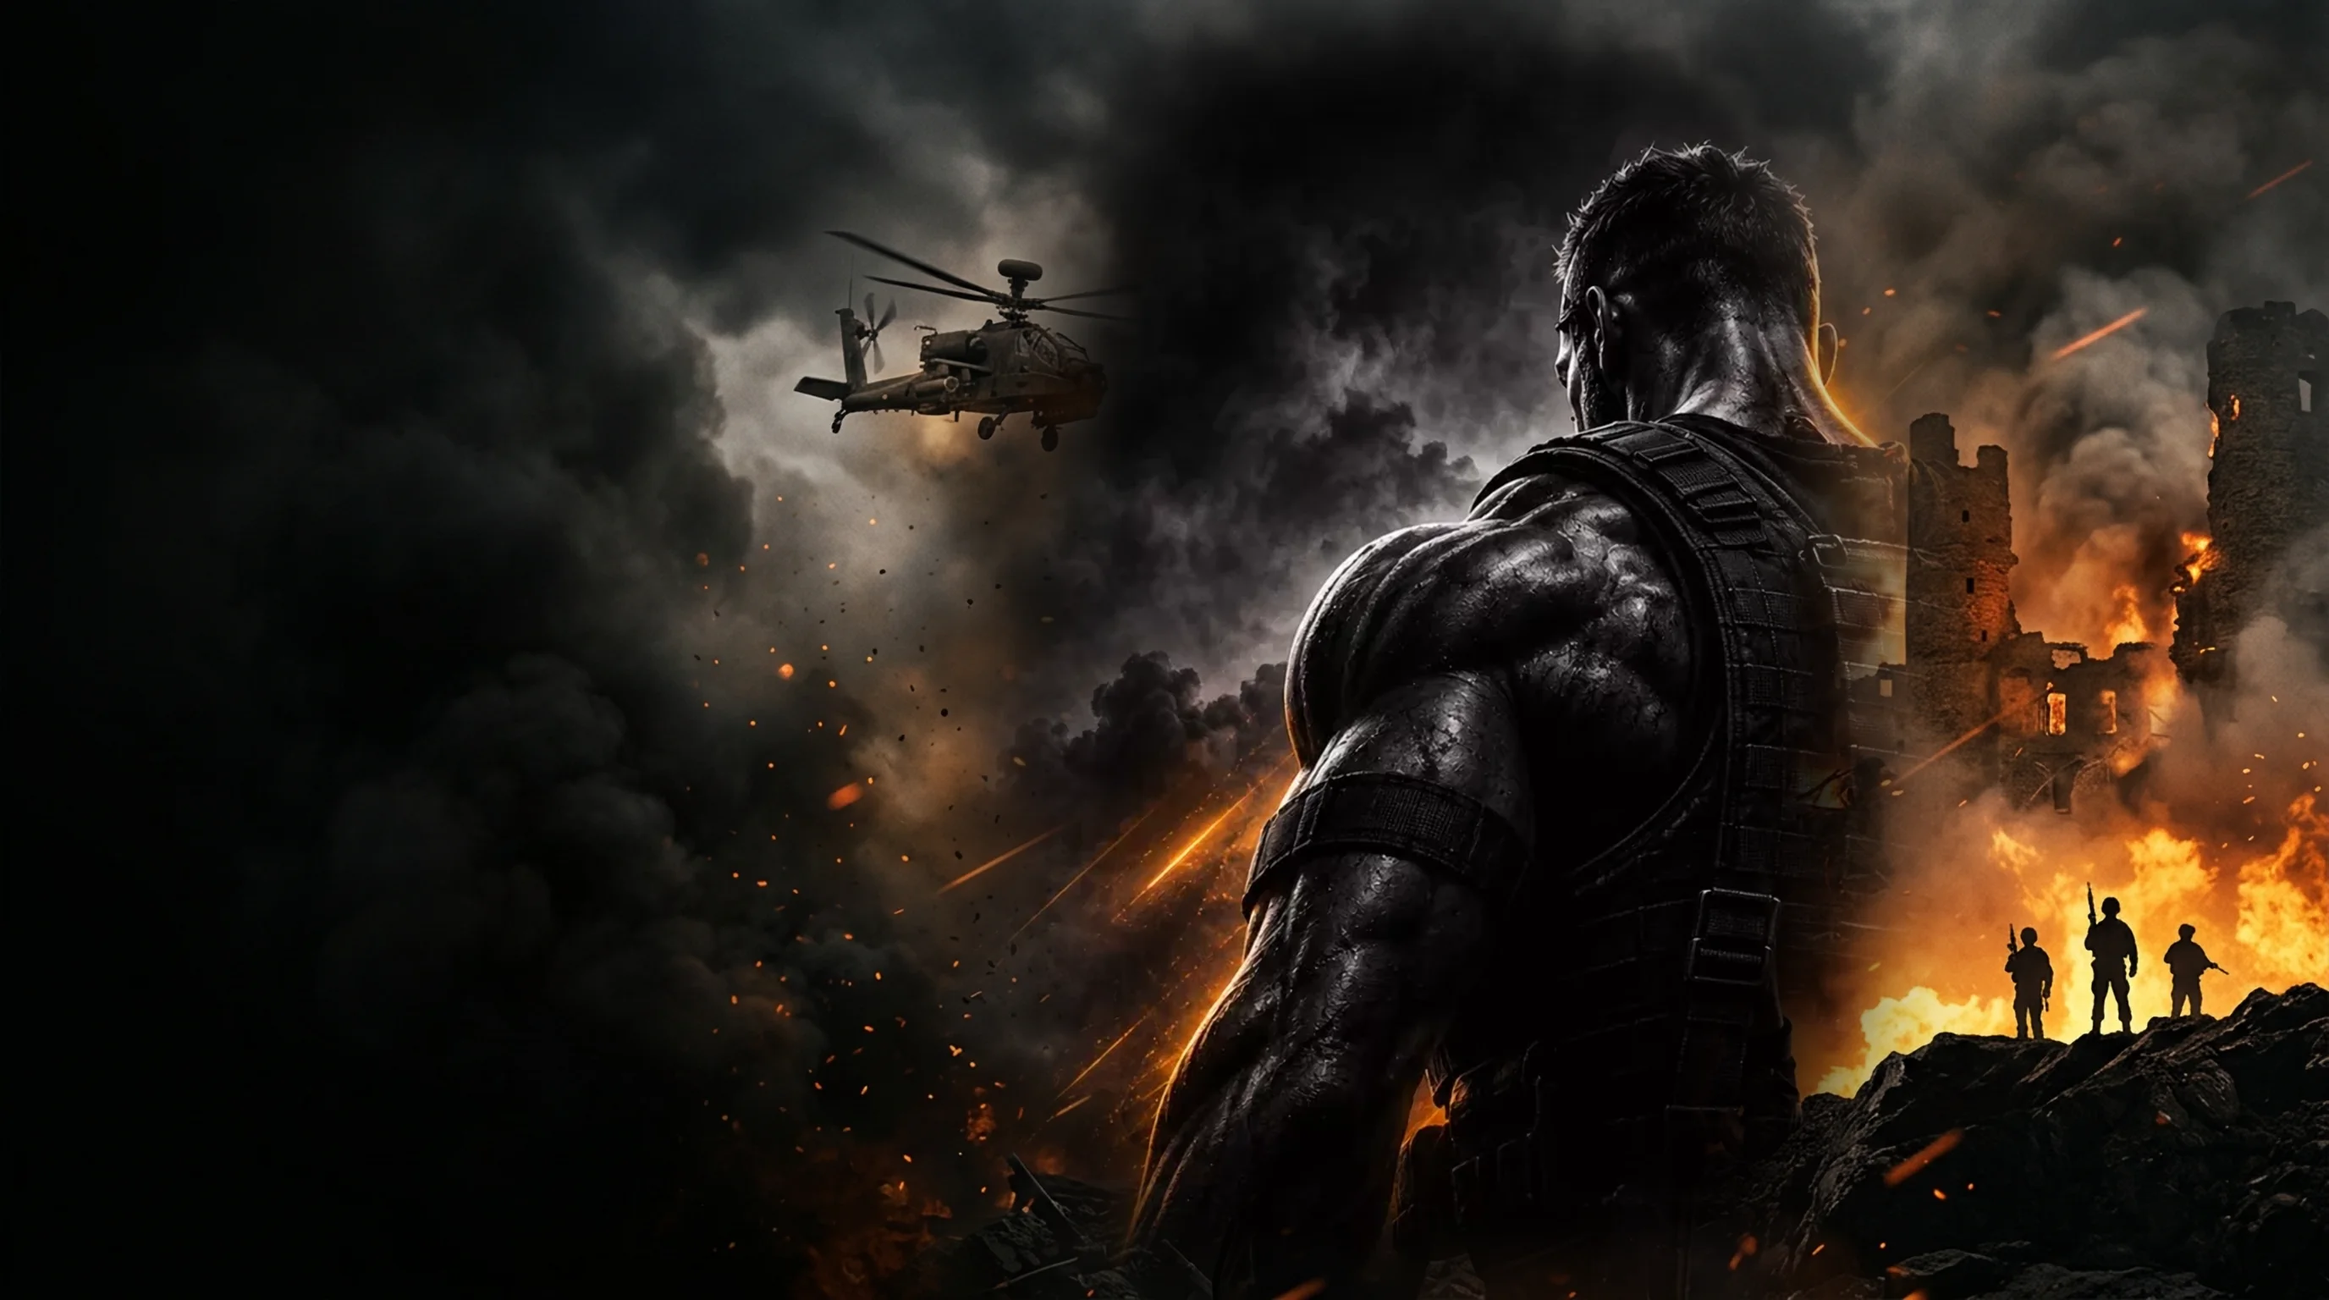
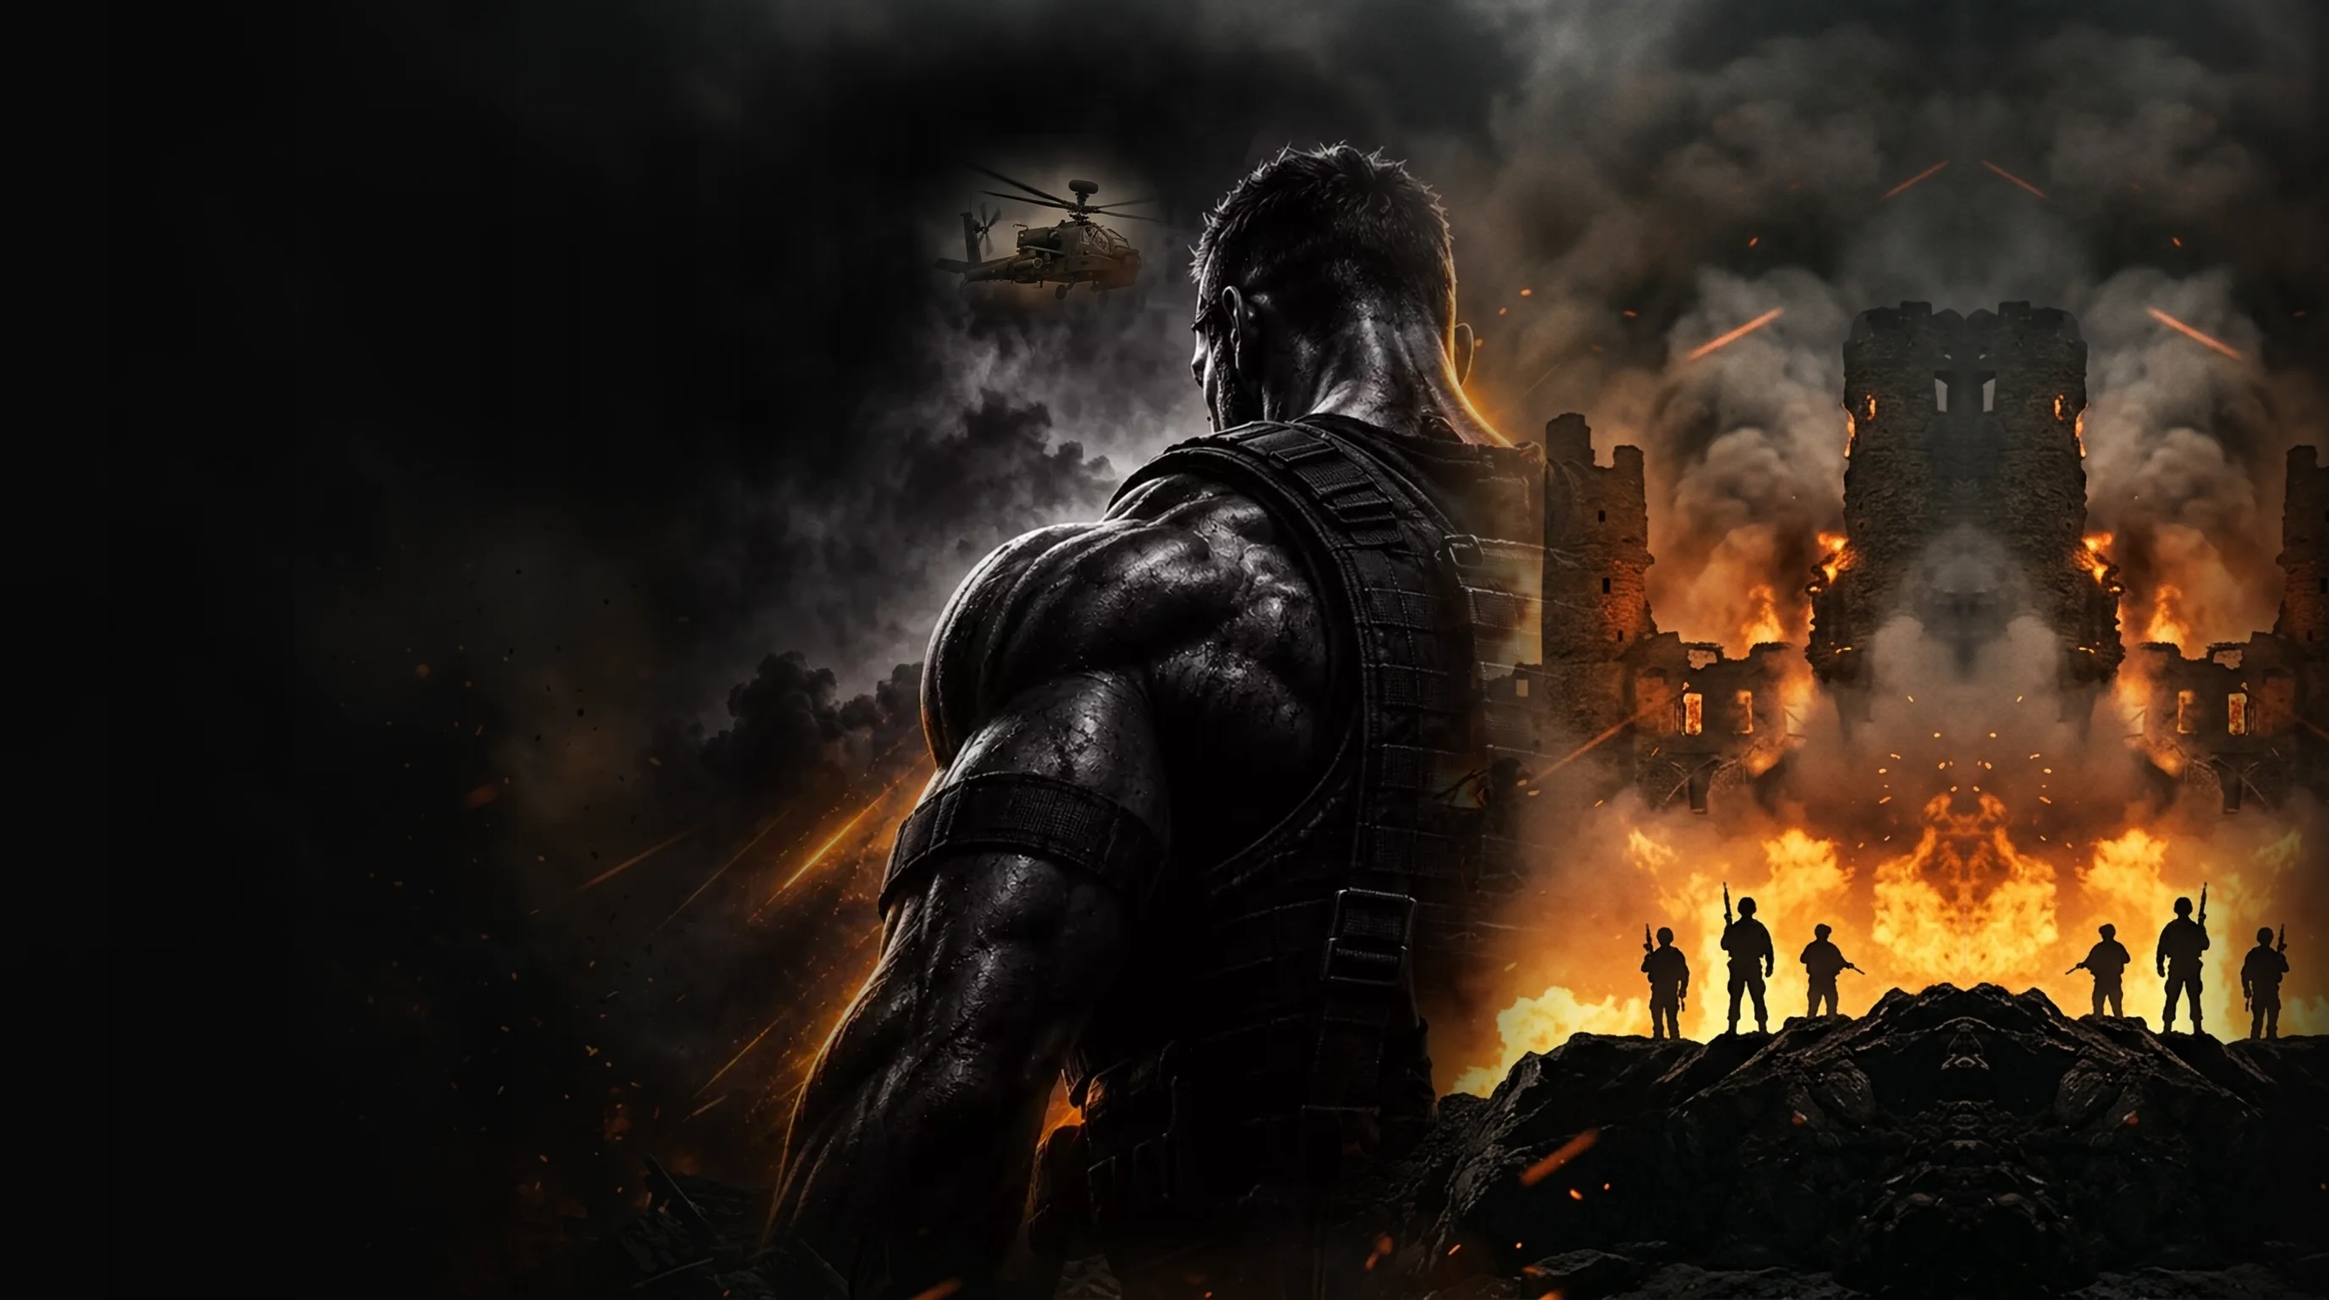
Homepage hero matched to the owner's reference; Ripz in the top bar
Battlefield recomposed so the helicopter sits between the headline and the
warrior and the phones no longer cover him. iPhone-style frames with a
status bar, the crest screen on the second phone, the outlined angular
button, the wide italic headline face, and vw-based positions so the
composition holds at every desktop width. Mobile uses the same artwork.

Claude-Session: https://claude.ai/code/session_014Xmm6a1V85rTLyXYfDJ2dw

diff --git a/src/app/globals.css b/src/app/globals.css
@@ -1227,3 +1227,97 @@ html:has([data-landing-body]) { scroll-behavior: smooth; scroll-padding-top: 88p
   .lx-hero-badge { margin: 0; }
   .lx-hero-badge img { height: 52px !important; }
 }
+
+/* ════ Hero, reference pass. Positions are in vw so the headline, phones and
+   the artwork keep the same relationship at every desktop width. ════ */
+@font-face { font-family: 'Kanit'; font-style: italic; font-weight: 800; font-display: swap; src: url('/fonts/kanit-800-italic.woff2') format('woff2'); }
+
+/* iPhone frame */
+.lx-phone { border-radius: 17% / 8.2%; padding: 2.4%; background: #060606; box-shadow: 0 0 0 1.5px #55565a, 0 0 0 3px #1a1a1c, 0 0 0 4px #3a3b3f, 0 40px 80px -24px rgba(0,0,0,.95), 0 0 70px -18px rgba(255,150,20,.55); }
+.lx-phone::after { border-radius: inherit; background: linear-gradient(125deg, rgba(255,255,255,.10) 0%, transparent 22%, transparent 78%, rgba(255,170,60,.10) 100%); }
+.lx-phone-screen { border-radius: 14.6% / 6.9%; aspect-ratio: 9 / 19.3; container-type: inline-size; display: flex; flex-direction: column; background: #050505; }
+.lx-phone-screen > img { flex: 1; min-height: 0; height: auto; }
+.lx-status { position: relative; flex: none; height: 11.5cqw; display: flex; align-items: center; justify-content: space-between; padding: 2.4cqw 7.5cqw 0; color: #fff; background: #050505; }
+.lx-status-time { font-size: 4.5cqw; font-weight: 700; letter-spacing: -.01em; }
+.lx-island { position: absolute; left: 50%; top: 2.6cqw; width: 29cqw; height: 8cqw; border-radius: 5cqw; background: #000; transform: translateX(-50%); box-shadow: inset 0 0 0 .3cqw #151515; }
+.lx-status-icons { display: flex; align-items: center; gap: 1.6cqw; }
+.lx-status-icons svg { height: 3.4cqw; width: auto; }
+
+/* The second phone: the brand screen from the reference */
+.lx-crest-screen { flex: 1; display: flex; flex-direction: column; align-items: center; text-align: center; padding: 3cqw 8cqw 0; background: radial-gradient(90% 45% at 50% 22%, rgba(255,130,10,.28), transparent 70%), #070707; }
+.lx-crest { width: 70cqw; height: 70cqw; object-fit: cover; -webkit-mask-image: radial-gradient(closest-side, #000 62%, transparent 100%); mask-image: radial-gradient(closest-side, #000 62%, transparent 100%); }
+.lx-crest-title { font-family: 'Kanit', 'Barlow Condensed', sans-serif; font-style: italic; font-weight: 800; text-transform: uppercase; font-size: 11.2cqw; line-height: 1; margin-top: 1cqw; }
+.lx-crest-title span { display: block; white-space: nowrap; color: #fff; }
+.lx-crest-title span + span { color: var(--lx-orange); }
+.lx-crest-sub { font-size: 4.3cqw; line-height: 1.45; color: #d2d2d2; margin-top: 5cqw; }
+.lx-crest-btn { display: inline-flex; align-items: center; justify-content: center; gap: 2cqw; margin-top: 7cqw; width: 100%; height: 14.5cqw; border-radius: 4cqw; font-size: 4.9cqw; font-weight: 800; color: #160b00; background: linear-gradient(180deg, #FFC457, var(--lx-orange) 45%, var(--lx-orange2)); box-shadow: 0 0 8cqw rgba(255,150,20,.5); white-space: nowrap; }
+.lx-crest-btn svg { width: 5cqw; height: 5cqw; }
+.lx-crest-note { font-size: 3.4cqw; color: #8e8e8e; margin-top: 4.5cqw; }
+
+.lx-hero-title { font-family: 'Kanit', 'Barlow Condensed', sans-serif; font-size: clamp(38px, 12.2vw, 76px); line-height: 1.02; letter-spacing: -.01em; }
+.lx-facts-tag { font-family: 'Kanit', 'Barlow Condensed', sans-serif; line-height: 1.02; }
+
+@media (min-width: 1024px) {
+  .lx-hero { min-height: 46.5vw; }
+  /* artwork: full width, anchored to the top, so it scales with the layout */
+  .lx-hero-art { left: 0; width: 100%; height: 100%; object-position: center top; -webkit-mask-image: linear-gradient(180deg, #000 84%, transparent 100%); mask-image: linear-gradient(180deg, #000 84%, transparent 100%); -webkit-mask-composite: source-over; mask-composite: add; }
+  .lx-hero-fade { background: linear-gradient(180deg, rgba(8,8,8,.55) 0%, rgba(8,8,8,0) 12%, rgba(8,8,8,0) 80%, var(--lx-bg) 100%); }
+  .lx-hero .lx-hero-inner { display: block; max-width: none; padding: 2.6vw 4.3vw 2vw; position: static; }
+  .lx-hero-copy { position: relative; z-index: 2; width: 49vw; }
+  .lx-hero .lx-eyebrow { font-size: clamp(11px, .9vw, 17px); letter-spacing: .44em; }
+  .lx-hero-title { font-size: clamp(50px, 5.45vw, 112px); margin-top: .5vw; line-height: 1.03; }
+  .lx-hero-title .lx-orange { filter: drop-shadow(0 0 1.6vw rgba(255,140,0,.35)); }
+  .lx-hero-sub { font-size: clamp(14px, 1.2vw, 23px); max-width: 35vw; margin-top: 1vw; line-height: 1.45; color: #dcdcdc; }
+  .lx-hero-actions { margin-top: 1.9vw; gap: 2vw; flex-wrap: nowrap; }
+  /* the outlined, angular button of the reference */
+  .lx-hero-actions .lx-cta { position: relative; min-height: 0; height: 4.4vw; min-width: 17.6vw; padding: 0 2vw; border-radius: 0; color: var(--lx-orange); background: linear-gradient(180deg, #FFC457, var(--lx-orange2)); box-shadow: none; isolation: isolate;
+    clip-path: polygon(1vw 0, calc(100% - 1vw) 0, 100% 1vw, 100% calc(100% - 1vw), calc(100% - 1vw) 100%, 1vw 100%, 0 calc(100% - 1vw), 0 1vw); filter: drop-shadow(0 0 1.1vw rgba(255,150,20,.6)); }
+  .lx-hero-actions .lx-cta::before { content: ''; position: absolute; inset: 2px; z-index: -1; background: linear-gradient(180deg, #3a2204 0%, #1a0f02 45%, #120a01 100%);
+    clip-path: polygon(calc(1vw - 1px) 0, calc(100% - 1vw + 1px) 0, 100% calc(1vw - 1px), 100% calc(100% - 1vw + 1px), calc(100% - 1vw + 1px) 100%, calc(1vw - 1px) 100%, 0 calc(100% - 1vw + 1px), 0 calc(1vw - 1px)); }
+  .lx-hero-actions .lx-cta:hover { filter: drop-shadow(0 0 1.8vw rgba(255,150,20,.9)) brightness(1.12); transform: translateY(-2px); }
+  .lx-hero-actions .lx-cta-label { font-family: 'DM Sans', system-ui, sans-serif; font-style: normal; font-weight: 800; text-transform: none; letter-spacing: 0; font-size: clamp(14px, 1.18vw, 23px); color: #FFB13B; }
+  .lx-hero-actions .lx-cta-label svg { width: 1.2vw; height: 1.2vw; }
+  .lx-hero-actions .lx-cta-sub { font-size: clamp(10px, .76vw, 14px); color: #F5A02A; opacity: 1; font-weight: 500; margin-top: .2vw; }
+  .lx-hero-actions .lx-demo { gap: .9vw; }
+  .lx-hero-actions .lx-demo-icon { width: 2.9vw; height: 2.9vw; min-width: 40px; min-height: 40px; }
+  .lx-hero-actions .lx-demo b { font-size: clamp(13px, 1vw, 19px); } .lx-hero-actions .lx-demo small { font-size: clamp(11px, .85vw, 15px); }
+  .lx-hero-badge { display: none; }
+  /* strip */
+  .lx-hero .lx-strip-wrap { margin-top: 1.9vw; width: 48.2vw; max-width: none; }
+  .lx-hero .lx-strip { padding: 0; border-radius: .9vw; }
+  .lx-hero .lx-strip li { padding: 1.1vw .4vw 1vw; gap: .15vw; }
+  .lx-hero .lx-strip li svg { width: 2vw; height: 2vw; min-width: 24px; min-height: 24px; }
+  .lx-hero .lx-strip b { font-family: 'DM Sans', system-ui, sans-serif; font-weight: 700; text-transform: none; letter-spacing: 0; font-size: clamp(12px, .88vw, 17px); line-height: 1.2; margin-top: .5vw; max-width: 9em; }
+  .lx-hero .lx-strip span { font-size: clamp(11px, .8vw, 15px); color: #c9c9c9; }
+  /* facts */
+  .lx-hero .lx-facts-wrap { margin-top: 2vw; width: 62vw; max-width: none; }
+  .lx-hero .lx-facts dl > div { padding: .3vw 1.9vw; gap: .8vw; }
+  .lx-hero .lx-fact-icon { width: 2.2vw; height: 2.2vw; }
+  .lx-hero .lx-facts dt { font-family: 'DM Sans', system-ui, sans-serif; font-weight: 800; font-size: clamp(18px, 1.55vw, 30px); }
+  .lx-hero .lx-facts dd { font-size: clamp(11px, .86vw, 16px); }
+  .lx-hero .lx-facts-tag { font-size: clamp(22px, 2.15vw, 42px); padding-left: 2.4vw; margin-left: .6vw; }
+  /* phones, placed as in the reference: 61.6% and 78% across */
+  .lx-hero-phones { display: block; position: absolute; inset: 0; height: auto; min-height: 0; z-index: 1; pointer-events: none; }
+  .lx-hero-phones .lx-phone-front { left: 62.2vw; right: auto; top: 4.3vw; width: 18.2vw; z-index: 2; animation-name: lx-float-e; }
+  .lx-hero-phones .lx-phone-back { left: 79vw; right: auto; top: 7.6vw; width: 14.6vw; z-index: 1; animation-name: lx-float-f; }
+  #features.lx-section { padding-top: .6vw; }
+}
+@keyframes lx-float-e { 0%,100% { transform: rotate(4.5deg) translateY(0); } 50% { transform: rotate(4.5deg) translateY(-.6vw); } }
+@keyframes lx-float-f { 0%,100% { transform: rotate(8deg) translateY(0); } 50% { transform: rotate(8deg) translateY(.5vw); } }
+@media (prefers-reduced-motion: reduce) { .lx-hero-phones .lx-phone-front { transform: rotate(4.5deg); } .lx-hero-phones .lx-phone-back { transform: rotate(8deg); } }
+/* phone screens fill their frames */
+.lx-phone-screen > img { flex: 1 1 0; width: 100%; height: 0; min-height: 0; object-fit: cover; object-position: top; }
+.lx-crest-screen .lx-crest { width: 68cqw; height: 68cqw; flex: none; }
+.lx-facts-tag > span { white-space: nowrap; }
+@media (min-width: 1024px) {
+  .lx-hero-title { font-size: clamp(48px, 5.2vw, 106px); line-height: .96; }
+  .lx-hero-sub { font-size: clamp(13px, 1.17vw, 22px); max-width: 35.5vw; margin-top: .9vw; }
+  .lx-hero-actions { margin-top: 1.7vw; }
+  .lx-hero .lx-strip-wrap { margin-top: 1.7vw; }
+  .lx-hero .lx-strip li { padding: .9vw .4vw .85vw; }
+  .lx-hero .lx-facts-wrap { margin-top: 1.7vw; }
+  .lx-hero .lx-facts-tag { font-size: clamp(20px, 2vw, 40px); }
+  .lx-hero .lx-hero-inner { padding-bottom: 1.4vw; }
+}
+@media (min-width: 1024px) { .lx-hero-phones .lx-phone-front { padding: .44vw; } .lx-hero-phones .lx-phone-back { padding: .36vw; } }
+@media (max-width: 1023px) { .lx-hero-actions { grid-template-columns: 1fr 1fr; justify-content: stretch; justify-items: center; } .lx-hero-actions .lx-demo { justify-self: end; } .lx-hero-actions .lx-hero-badge { justify-self: start; } }

diff --git a/src/components/landing/Redesign.tsx b/src/components/landing/Redesign.tsx
@@ -19,7 +19,7 @@ import { useEffect, useRef, useState, type ReactNode } from 'react';
 import Link from 'next/link';
 import {
   ArrowRight, Menu, X, PlayCircle, Dumbbell, LineChart, Trophy, Zap, ShieldCheck,
-  Utensils, Droplets, Wind, Swords, Users, ClipboardList, Download, Apple, Play,
+  Utensils, Droplets, Wind, Swords, Users, ClipboardList, Download, Apple, Play, BarChart3,
 } from 'lucide-react';
 import { GooglePlayBadge } from '@/components/ui/GooglePlayBadge';
 import { OperatorLine } from '@/components/ui/OperatorLine';
@@ -48,13 +48,30 @@ export function Reveal({ children, className = '', delay = 0 }: { children: Reac
   );
 }
 
-/** A phone showing a real screenshot. `src` is 990×2000-ish; the frame keeps
- *  that ratio so nothing is cropped or stretched. */
-export function PhoneFrame({ src, alt, className = '', priority = false }: { src: string; alt: string; className?: string; priority?: boolean }) {
+/** Status bar: time, the island, signal, wifi and battery. Sized in container
+ *  units so it scales with whatever width the phone is drawn at. */
+function StatusBar() {
+  return (
+    <div className="lx-status" aria-hidden>
+      <span className="lx-status-time">9:41</span>
+      <span className="lx-island" />
+      <span className="lx-status-icons">
+        <svg viewBox="0 0 18 12" fill="currentColor"><rect x="0" y="8" width="3" height="4" rx=".7" /><rect x="5" y="5.5" width="3" height="6.5" rx=".7" /><rect x="10" y="3" width="3" height="9" rx=".7" /><rect x="15" y="0" width="3" height="12" rx=".7" /></svg>
+        <svg viewBox="0 0 16 12" fill="none" stroke="currentColor" strokeWidth="1.8" strokeLinecap="round"><path d="M1 4.2a10 10 0 0 1 14 0M3.4 6.8a6.5 6.5 0 0 1 9.2 0M5.9 9.3a3 3 0 0 1 4.2 0" /></svg>
+        <svg viewBox="0 0 26 12" fill="none"><rect x=".6" y=".6" width="21.8" height="10.8" rx="3" stroke="currentColor" strokeOpacity=".5" strokeWidth="1.2" /><rect x="2.2" y="2.2" width="18.6" height="7.6" rx="1.6" fill="currentColor" /><rect x="23.6" y="4" width="1.8" height="4" rx=".9" fill="currentColor" fillOpacity=".5" /></svg>
+      </span>
+    </div>
+  );
+}
+
+/** An iPhone-style frame: slim black bezel, metal edge, status bar. Shows a
+ *  real screenshot (`src`), or whatever is passed as children. */
+export function PhoneFrame({ src, alt = '', className = '', priority = false, children }: { src?: string; alt?: string; className?: string; priority?: boolean; children?: ReactNode }) {
   return (
     <div className={`lx-phone ${className}`}>
       <div className="lx-phone-screen">
-        <img src={src} alt={alt} width={560} height={1131} loading={priority ? 'eager' : 'lazy'} decoding="async" />
+        <StatusBar />
+        {children ?? <img src={src} alt={alt} width={900} height={1818} loading={priority ? 'eager' : 'lazy'} decoding="async" />}
       </div>
     </div>
   );
@@ -84,7 +101,7 @@ export function LandingNav({ sections, pages, appName, showIos }: {
 }) {
   const [open, setOpen] = useState(false);
   const [scrolled, setScrolled] = useState(false);
-  const barLinks = ['/', '/programs', '/standards', '/challenges', '/trainers', '/partners'];
+  const barLinks = ['/', '/programs', '/standards', '/challenges', '/ripz', '/trainers', '/partners'];
 
   useEffect(() => {
     const onScroll = () => {
@@ -192,7 +209,7 @@ export function LandingHero({ eyebrow, line1, line2, sub, ctaLabel, ctaNote, dis
             ) : (
               <a href="#screens" className="lx-demo">
                 <span className="lx-demo-icon"><PlayCircle className="w-7 h-7" aria-hidden /></span>
-                <span><b>See the App</b><small>Real screens, no mock-ups</small></span>
+                <span><b>See the App</b><small>See the app in action</small></span>
               </a>
             )}
             {playBadge && <div className="lx-hero-badge">{playBadge}</div>}
@@ -204,7 +221,15 @@ export function LandingHero({ eyebrow, line1, line2, sub, ctaLabel, ctaNote, dis
         {/* Product, in the hand. Desktop only: on a phone the visitor is
             already holding one, and the screens get their own section. */}
         <div className="lx-hero-phones" aria-hidden>
-          <PhoneFrame src="/landing/web-mobile.webp" alt="" className="lx-phone-back lx-float-b" priority />
+          <PhoneFrame className="lx-phone-back lx-float-b">
+            <div className="lx-crest-screen">
+              <img src="/landing/crest.webp" alt="" className="lx-crest" />
+              <p className="lx-crest-title"><span>{line1}</span><span>{line2}</span></p>
+              <p className="lx-crest-sub">{sub}</p>
+              <span className="lx-crest-btn">{ctaLabel} <ArrowRight aria-hidden /></span>
+              <p className="lx-crest-note">{ctaNote}</p>
+            </div>
+          </PhoneFrame>
           <PhoneFrame src="/landing/app-home.webp" alt="" className="lx-phone-front lx-float-a" priority />
         </div>
       </div>
@@ -216,7 +241,7 @@ export function LandingHero({ eyebrow, line1, line2, sub, ctaLabel, ctaNote, dis
 
 const STRIP = [
   { Icon: Dumbbell, title: 'Custom Training Plans', sub: 'For all levels' },
-  { Icon: LineChart, title: 'Track Your Progress', sub: 'In real time' },
+  { Icon: BarChart3, title: 'Track Your Progress', sub: 'In real time' },
   { Icon: Trophy, title: 'Reach Your Goals', sub: 'Faster' },
   { Icon: Zap, title: 'Build Strength', sub: '& endurance' },
   { Icon: ShieldCheck, title: 'Stay Accountable', sub: 'With challenges' },

diff --git a/src/app/LandingClient.tsx b/src/app/LandingClient.tsx
@@ -118,6 +118,7 @@ const NAV_LINKS = [
   // are reached from that page or from search, never from the menu.
   { href: '/standards', label: 'Standards' },
   { href: '/challenges', label: 'Challenges' },
+  { href: '/ripz', label: 'Ripz' },
   { href: '/download', label: 'Download App' },
   { href: '/trainers', label: 'For Trainers' },
   { href: '/partners', label: 'Partners' },
